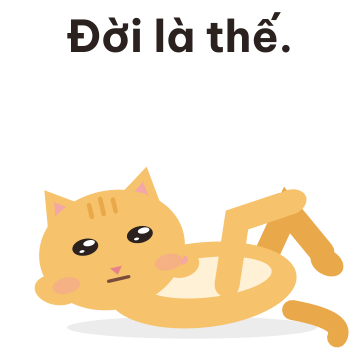
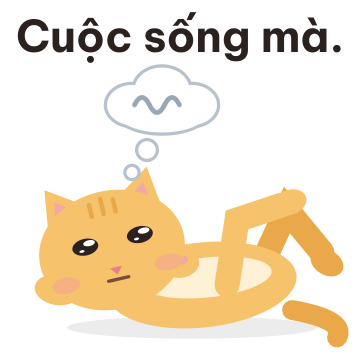
Sticker 03: "Cuộc sống mà." with a hazy thought bubble; set-v0 and set-v1 rebuilt

Changed region(s): [[0.0306, 0.0306, 0.9472, 0.5194], [0.5806, 0.2444, 0.6111, 0.3361], [0.5194, 0.2139, 0.5806, 0.2444]]

diff --git a/docs/plans/assets/stickers/build_stickers.py b/docs/plans/assets/stickers/build_stickers.py
@@ -240,6 +240,18 @@ def wrap(inner, x, y, s):
 
 
 # ---- sticker-only art (not in the app): the lounging cat (3), the curled-up sleeper (9), the rain (10), confetti (7) ----
+def thought_bubble():
+    """A hazy thought bubble (a cloud with two small trailing circles and a wavy line inside): vague, drifting thoughts."""
+    grey, white = "#b8c2cc", "#ffffff"
+    parts = ((40, 26, 10, 8), (52, 20, 11, 9), (64, 26, 10, 8), (52, 29, 18, 8))
+    o = "".join(f'<ellipse cx="{x}" cy="{y}" rx="{rx + 1.3}" ry="{ry + 1.3}" fill="{grey}"/>' for x, y, rx, ry in parts)
+    o += f'<circle cx="46" cy="44" r="4.8" fill="{grey}"/><circle cx="40" cy="53" r="3.5" fill="{grey}"/>'
+    o += "".join(f'<ellipse cx="{x}" cy="{y}" rx="{rx}" ry="{ry}" fill="{white}"/>' for x, y, rx, ry in parts)
+    o += f'<circle cx="46" cy="44" r="3.5" fill="{white}"/><circle cx="40" cy="53" r="2.2" fill="{white}"/>'
+    o += stroke_path("M41 26 q3 -6 6 0 t6 0 t6 0", "#9aa7b5", 1.9)
+    return o
+
+
 def lounging():
     """Lying back at ease with one leg crossed over the other, head propped on a paw, thinking about life."""
     o = ell(64, 115, 50, 4.5, "#000", op=0.08)
@@ -252,7 +264,7 @@ def lounging():
     k = shift(STAND_F, 0, 0)
     look = dict(LOOK["rest"], lid=0.5, roll=-13, gy=-3, gx=2, mouth="flat", cheek=0.5)
     o += f'<g transform="translate(32,84) scale(0.7) translate(-60,-64)">{cat_head_only(k, look)}</g>'
-    return o
+    return o + thought_bubble()
 
 
 def curled_up():
@@ -440,7 +452,7 @@ STICKERS = [
     # file, text, svg of the cat (rig units; wrapped below), extras in rig units
     ("01", "Chào buổi sáng!", lambda: cat(STRETCH_S, LOOK["wake"]), dict(scale=2.8, dy=-14)),
     ("02", "Sướng quá~", lambda: cat(STAND_F, LOOK["purr"])),
-    ("03", "Đời là thế.", lounging, dict(scale=2.5, dx=2, dy=0)),
+    ("03", "Cuộc sống mà.", lounging, dict(scale=2.5, dx=2, dy=0)),
     ("04", "Buồn ngủ…", lambda: cat(SIT_F, dict(LOOK["drowsy"], lid=0.06, roll=-11, dy=9, droop=0.5, mouth="o", cheek=0.8, z=1))),
     ("05", "Hừm.", lambda: cat(SIT_F, LOOK["huff"]) + puffs()),
     ("06", "Quá sức mèo rồi.", lambda: cat(STAND_F, LOOK["sad"])),
@@ -525,7 +537,7 @@ V1 = [
     # (title vi, title en, title ja), (scene vi, scene en, scene ja), (text en, text ja)
     (("Chào buổi sáng", "Good morning", "おはよう"), ("vươn vai và ngáp", "stretches and yawns", "のびをしてあくびをしている"), ("Good morning!", "おはよう！")),
     (("Sướng quá", "Bliss", "きもちいい"), ("nhắm mắt sung sướng, được gãi đầu", "eyes shut in bliss, being scratched", "うっとり目を閉じて頭をなでられている"), ("So good~", "きもちいい〜")),
-    (("Đời là thế", "That's life", "そういうもの"), ("nằm ngửa vắt chân, vẻ thản nhiên", "lies back with crossed legs, deadpan", "足を組んで寝転び、すました顔"), ("That's life.", "そういうもの。")),
+    (("Cuộc sống mà", "That's life", "そういうもの"), ("nằm ngửa vắt chân, vẻ thản nhiên, bong bóng suy nghĩ mông lung", "lies back with crossed legs, deadpan, a hazy thought bubble above", "足を組んで寝転び、すました顔で、ぼんやりした考えの吹き出しが浮かんでいる"), ("That's life.", "そういうもの。")),
     (("Buồn ngủ", "Sleepy", "ねむい"), ("gật gù buồn ngủ, có chữ z bay lên", "nods off with a floating z", "うとうとして「z」が浮かんでいる"), ("Sleepy…", "ねむい…")),
     (("Hừm", "Hmph", "むっ"), ("ngồi lườm hờn, thở ra mấy làn khói nhỏ", "sulks with a half-lidded glare and little puffs", "半目でむっとして、小さく息をはいている"), ("Hmph.", "むっ。")),
     (("Quá sức mèo rồi", "Too much for a cat", "ねこには無理"), ("mắt buồn, tai cụp, quá sức", "looks overwhelmed, ears down", "耳をたたんで、手に負えない様子"), ("Too much for a cat.", "ねこには無理！")),

diff --git a/docs/plans/sticker-set-v0.md b/docs/plans/sticker-set-v0.md
@@ -31,6 +31,8 @@ All 15 stickers, the icon, the preview and the 9 banners exist as PNG in [`asset
 
 **Third pass (2026-11-11):** the six stickers that looked alike at 120 px now differ by silhouette or gesture: 05 sits and puffs, 08 beckons with a raised paw, 14 rests a paw on the chin under a thought bubble, 15 giggles behind a paw, 16 claps slowly, 17 turns side-on (see [`six_distinct.png`](assets/stickers/direction-v1/six_distinct.png)); 03 lost its thought dots. The paws and arcs are sticker art, not rig poses.
 
+**Sticker 03 (2026-11-11, the author):** the Vietnamese text is now "Cuộc sống mà." and the cat has a hazy thought bubble (a cloud with a wavy line inside); `set-v1` was rebuilt.
+
 **Per-language set (2026-11-11, asked by the website session after the author's decision, ADR-0053):** `set-v1` in `assets/stickers/set-v1/` has the same 20 stickers with the text in Vietnamese, English and Japanese (folders `vi`, `en`, `ja`) and a `manifest.json` (text, title, alt, reviewed, font credits). Japanese is set in M PLUS Rounded 1c (SIL OFL). English and Japanese are AI-written and unreviewed (V-99). `build_stickers.py` writes `set-v1` next to `set-v0`. `set-v0` stays until the website has moved over.
 
 **Eleventh pass (2026-11-11, the author): the three motion ticks under the hopping cat were dropped (they confused), and the front-held sign is confirmed for "Không nha.".**

diff --git a/docs/decisions/0050-sticker-second-pass-sarcasm-lounging-and-mochi-sleep.md b/docs/decisions/0050-sticker-second-pass-sarcasm-lounging-and-mochi-sleep.md
@@ -32,6 +32,9 @@ The author removed "Hoan hô!" and "Không nha." (too fierce to look at, no bett
 ## Later the same day (6)
 The author asked for gentler versions of the two removed stickers (simple, cute, subtle) and suggested a "no entry" sign for "no": "Hoan hô!" returns as the cat hopping for joy with sparkles (no arms), and "Không nha." as the cat holding a no-entry road sign. The set is **20 stickers**; sarcasm is 5 of 20 (25%).
 
+## Later the same day (7)
+The text of sticker 03 changed from "Đời là thế." to **"Cuộc sống mà."** (Vietnamese), and the cat got a **hazy thought bubble** (a cloud with a wavy line inside) for vague, drifting thoughts. The English and Japanese lines stay ("That's life.", "そういうもの。"); the manifest's title and alt were updated.
+
 ## Consequences
 - Spec 06 section 7 and the set list are updated: 16 are in the app (matched to a state) and the sticker-only art is now 03, 09 and the cloud of 10; the set is 17 stickers.
 - The sarcasm texts have not been through the author's ear for Vietnamese banter (backlog E3).

diff --git a/docs/plans/sticker-expression-audit.md b/docs/plans/sticker-expression-audit.md
@@ -10,7 +10,7 @@ Done after the author removed the clapping "Giỏi quá!" (it duplicated 16, "Gi
 |---|---|---|---|---|---|
 | 01 | Chào buổi sáng! | greeting, fresh | shut, yawning | open (yawn) | stretch |
 | 02 | Sướng quá~ | bliss | closed arcs | smile | none |
-| 03 | Đời là thế. | deadpan ease | half lid | flat | lying back, legs crossed |
+| 03 | Cuộc sống mà. | deadpan ease, hazy thoughts | half lid | flat | lying back, legs crossed |
 | 04 | Buồn ngủ… | sleepy | closed arcs | small "o" | "z" |
 | 05 | Hừm. | sulk, glare | half lid | flat | puffs of breath, sitting |
 | 06 | Quá sức mèo rồi. | overwhelmed, refusing | open, low | flat | ears down |
